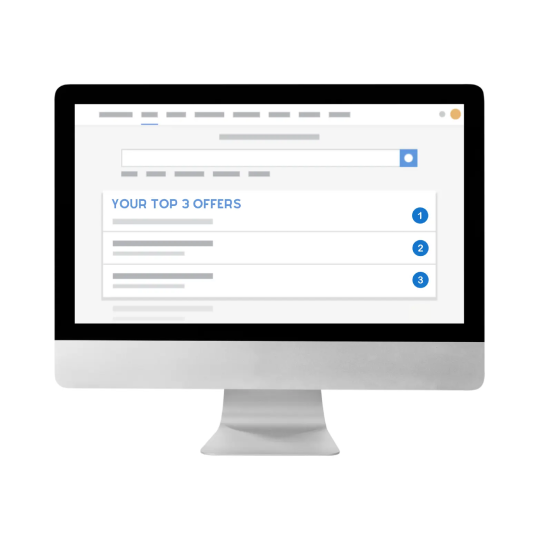
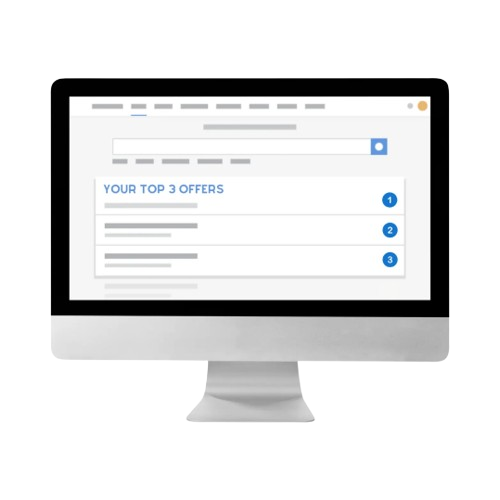
fix: updated images and quality of job create page

diff --git a/src/app/(public)/jobs/create/_components/advanced-promotion-card.tsx b/src/app/(public)/jobs/create/_components/advanced-promotion-card.tsx
@@ -11,21 +11,20 @@ export default function AdvancedPromotionCard({
   points,
   reverse,
 }: AdvancedPromotionCardProps) {
-  // const gradient = reverse
-  //   ? 'linear-gradient(92.04deg, #343338 1.76%, #272729 102.29%)'
-  //   : 'linear-gradient(92.04deg, #272729 1.76%, #343338 102.29%)';
   return (
-    <div
-      className="flex items-center justify-center rounded-lg border border-dark-background3 bg-dark-primary p-4 lg:p-8"
-      // style={{
-      //   background: gradient,
-      // }}
-    >
+    <div className="flex items-center justify-center rounded-lg border border-dark-background3 bg-dark-primary p-4 lg:p-8">
       <div className="flex flex-col justify-center gap-4 lg:flex-row lg:items-center lg:gap-8">
         <div
           className={`flex items-center justify-center ${reverse ? 'lg:order-2' : 'lg:order-1'}`}
         >
-          <Image src={imagUrl} alt={title} width={539} height={539} className="h-auto w-auto" />
+          <Image
+            src={imagUrl}
+            alt={title}
+            width={539}
+            height={539}
+            quality={100}
+            className="h-auto w-auto"
+          />
         </div>
         <div
           className={`flex flex-1 flex-col gap-4 lg:gap-12 ${reverse ? 'lg:order-1' : 'lg:order-2'}`}

diff --git a/src/app/(public)/jobs/create/page.tsx b/src/app/(public)/jobs/create/page.tsx
@@ -16,7 +16,7 @@ export default async function PostJob() {
     queryFn: getPromotedCompanies,
   });
   return (
-    <div className="mx-auto mt-4 flex max-w-screen-2xl flex-col gap-4 border border-dark-background3 bg-dark-background p-4 lg:mt-8 lg:gap-8 lg:p-8">
+    <div className="mx-auto my-4 flex max-w-screen-2xl flex-col gap-4 border border-dark-background3 bg-dark-background p-4 lg:my-8 lg:gap-8 lg:p-8">
       <PostJobForm />
       <AdvancedPromotion />
       <FAQSection />
